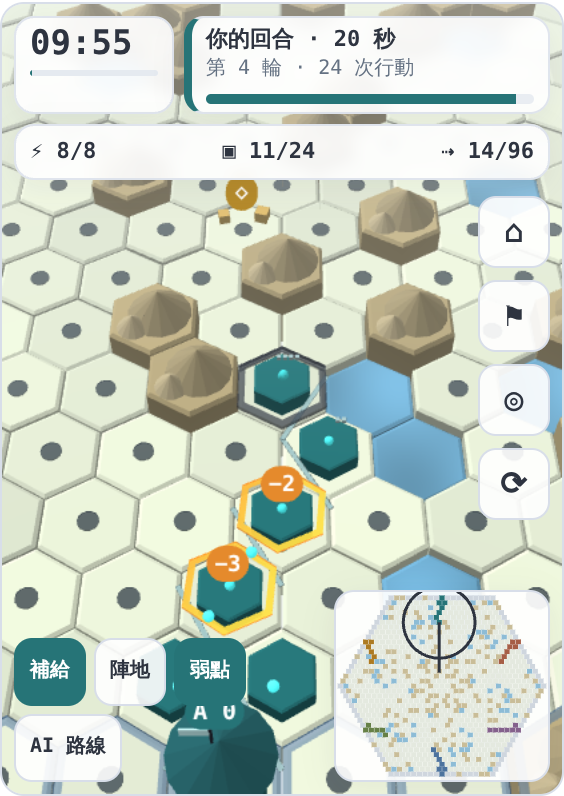
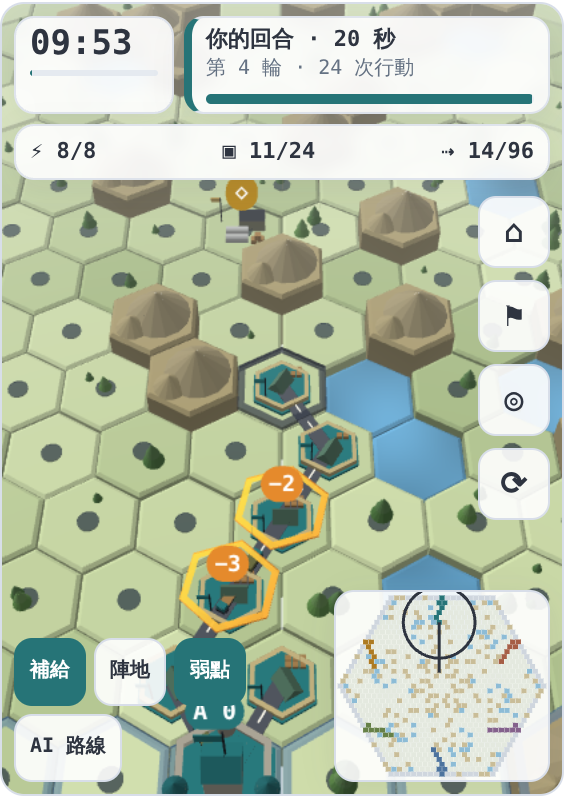
Record AutoHex-3D battlefield playtest
Full suite 465/465. Re-ran the Chromium playtests and a full ten-minute
campaign on the new battlefield models; all action logs replay
identically in the Node engine.

Claude-Session: https://claude.ai/code/session_01Uhr3zAC9qvkZDkg1xvcqao

diff --git a/docs/autohex-3d-2026-11-02/validation.md b/docs/autohex-3d-2026-11-02/validation.md
@@ -23,16 +23,22 @@ git diff --check
 
 ## 瀏覽器試玩（Chromium 153，SwiftShader WebGL2）
 
+下表為戰場造型更新後重跑的結果。十分鐘戰役由真實時間推進，AI 步速與計時的交錯不同，因此與前一輪手數不同；兩輪都要求重放一致。
+
 詳見 [browser-report.json](browser-report.json)。每一例都把頁面的完整行動紀錄（人類、AI、佇列、逾時）在 Node 的 AutoHex 引擎重放，棋盤、存糧與分數完全一致。
 
 | 情境 | 結果 |
 | --- | --- |
-| 桌機 1440 親自指揮 | 以真實滑鼠點 3D 畫面下令 30 次：鋪子 23、拆除敵方補給弱點 4、為己方弱點架盾 3；AI 行動中預約 2 個指令並自動執行；指揮時限逾時自動休整 1 次；暫停凍結計時；194 手，重放一致，無錯誤、無橫向溢出 |
-| 桌機 1280 觀戰 | 六 AI 304 手，重放一致 |
+| 桌機 1440 親自指揮 | 以真實滑鼠點 3D 畫面下令 30 次：鋪子 23、拆除敵方補給弱點 4、為己方弱點架盾 3；AI 行動中預約 2 個指令並自動執行；指揮時限逾時自動休整 1 次；暫停凍結計時；195 手，重放一致，無錯誤、無橫向溢出 |
+| 桌機 1280 觀戰 | 六 AI 306 手，重放一致 |
 | 手機 390／320 | 觸控點格下令各 4 次，重放一致，無橫向溢出 |
-| 完整十分鐘戰役（觀戰） | 1,856 手至結算畫面：C 紫藤 98、B 珊瑚 86、D 藍灰 80、E 草綠 76、A 青綠 70、F 琥珀 38。攻占 254、擊毀 130、斷補撤退 552、接通對岸 6、用牌 81、炮擊 115、空投 6、轟炸 5、重洗 1。重放一致 |
+| 完整十分鐘戰役（觀戰） | 1,835 手至結算畫面：C 紫藤 96、B 珊瑚 85、D 藍灰 80、E 草綠 75、A 青綠 70、F 琥珀 38。攻占 251、擊毀 129、斷補撤退 549、接通對岸 6、用牌 81、炮擊 114、空投 6、轟炸 5、重洗 1。重放一致 |
 
 畫面：[開局](desktop-ready.png) · [中局（陣地＋AI 路線）](desktop-midgame.png) · [指揮列](desktop-command.png) · [觀戰總覽](spectator-overview.png) · [十分鐘結算](full-campaign-result.png) · [手機 390](phone-390.png) · [手機 320](phone-320.png)
+
+## 戰場造型的檢查
+
+以暫停凍結動畫後逐張檢視：營地、城堡、砲塔瞄準、柏油路與卡車、桁架橋、地道口、機場起降、砲彈飛行與命中爆炸（火球、衝擊波、碎片、煙柱、焦痕）。截圖見 [README](README.md#戰場造型2026-11-02-更新)。這是目視檢查，不是自動化的影像比對。
 
 ## 限制
 
